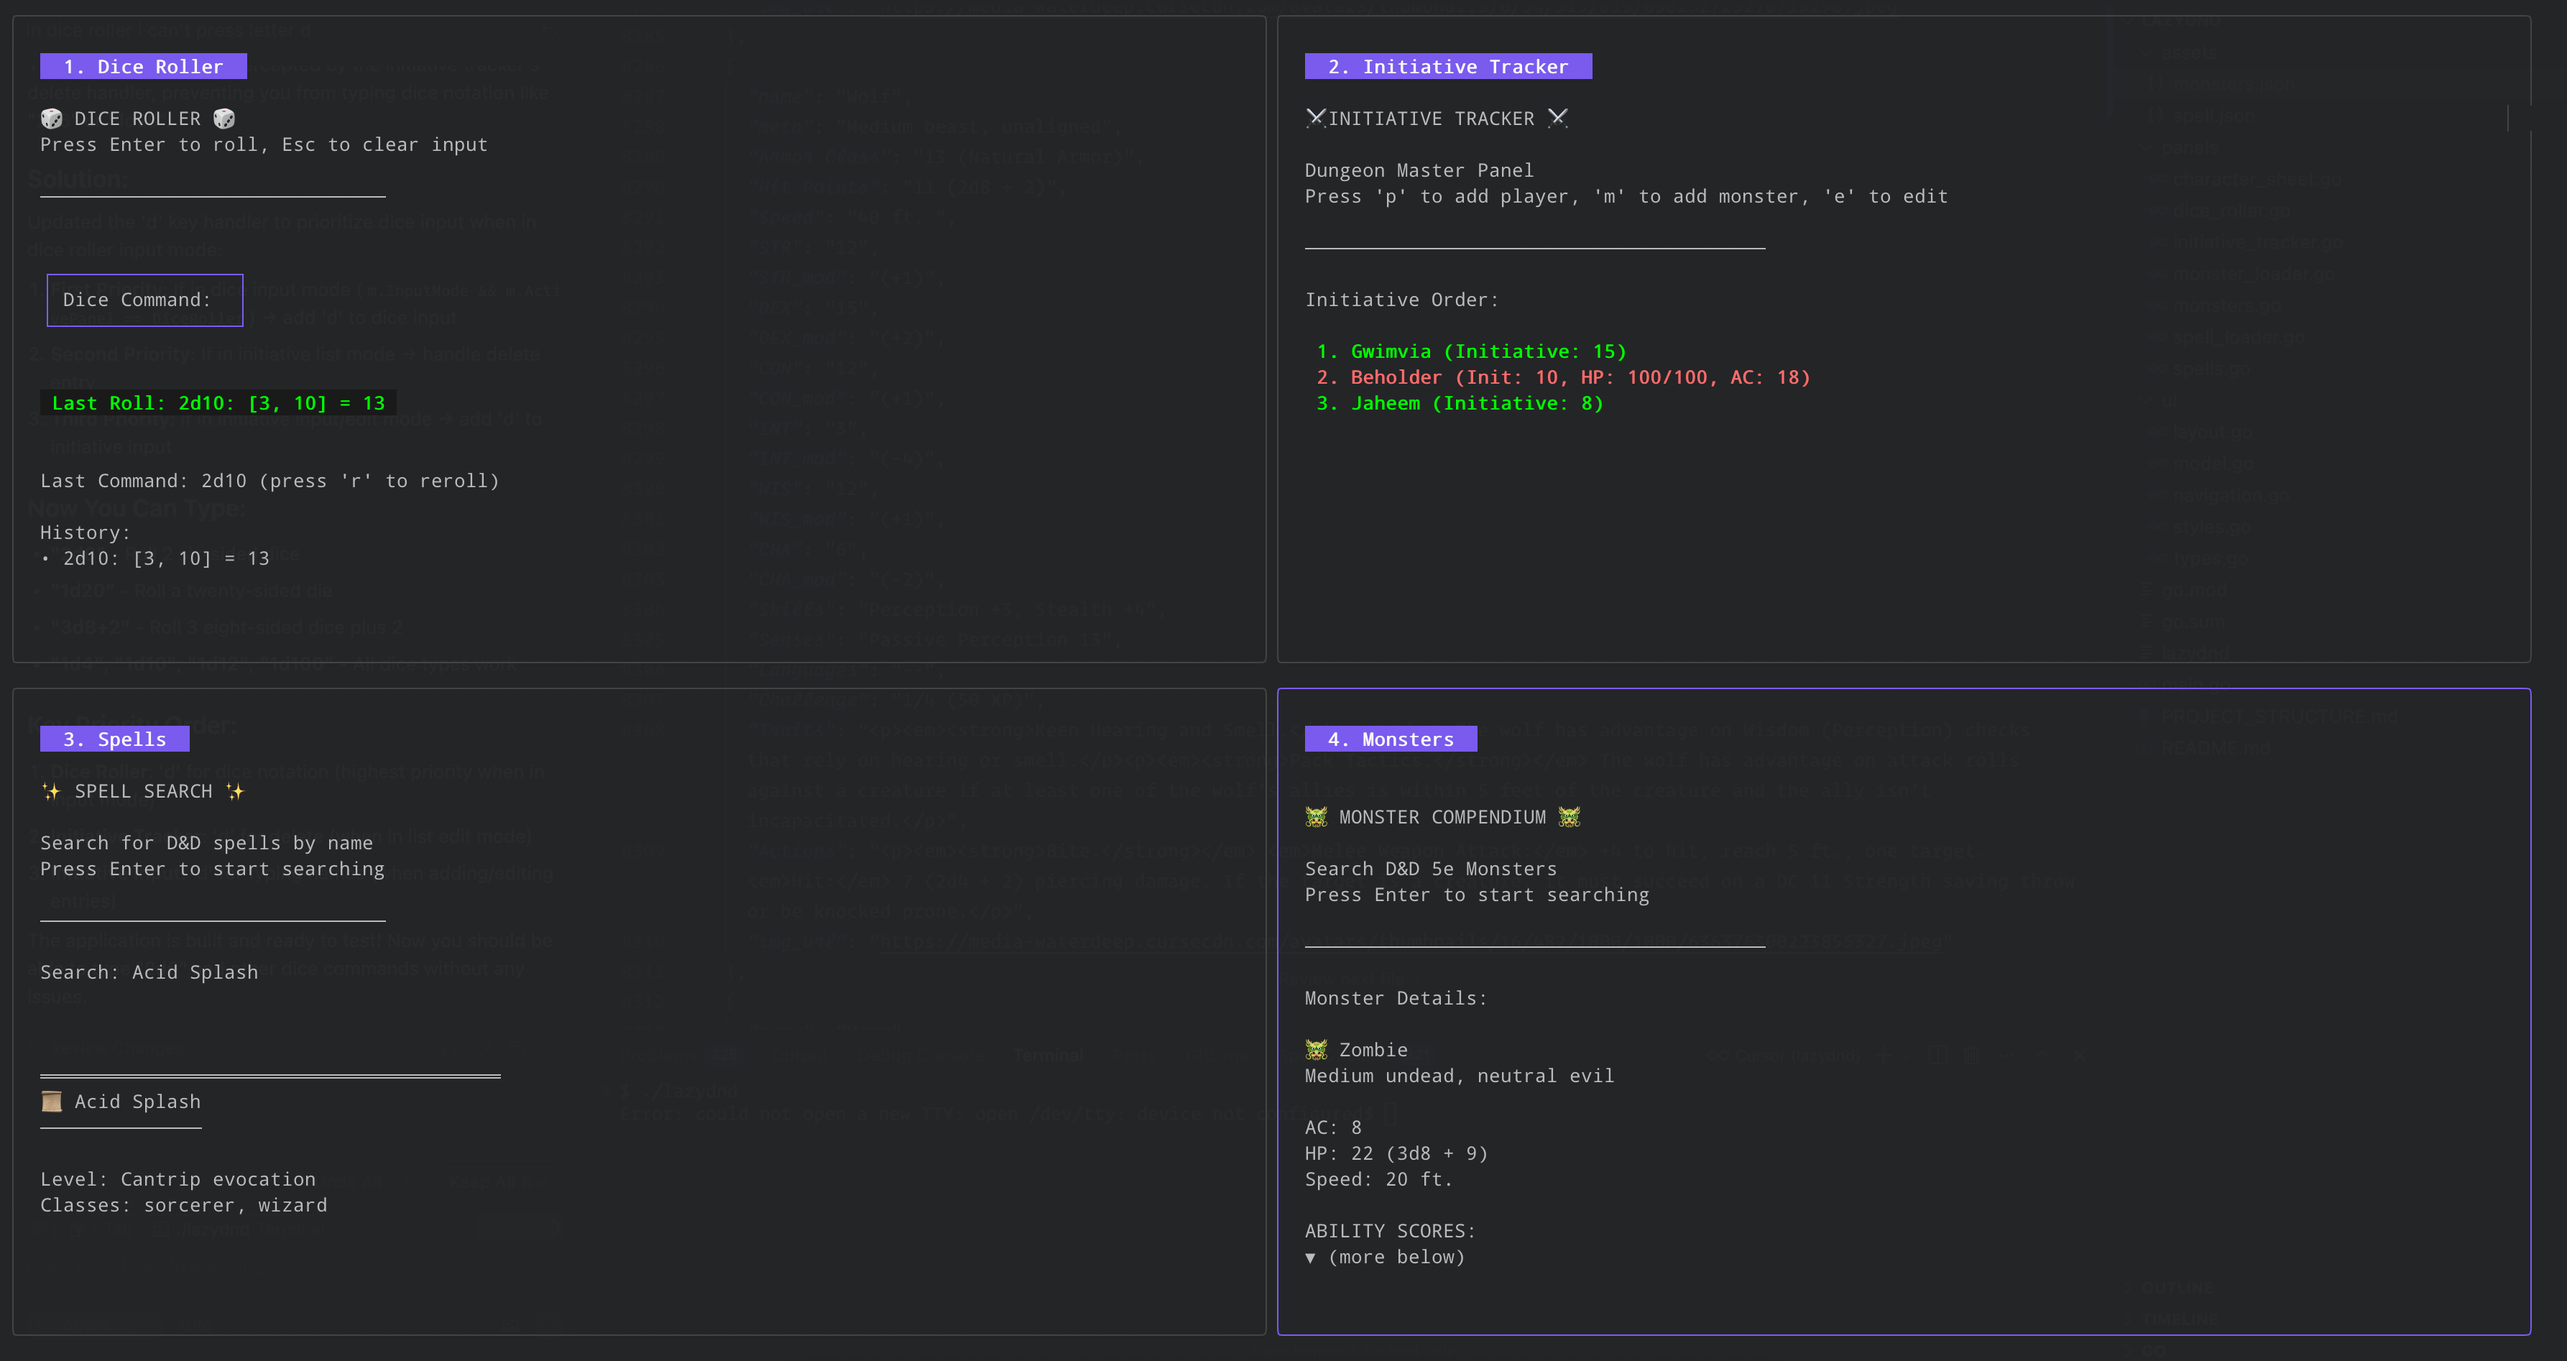
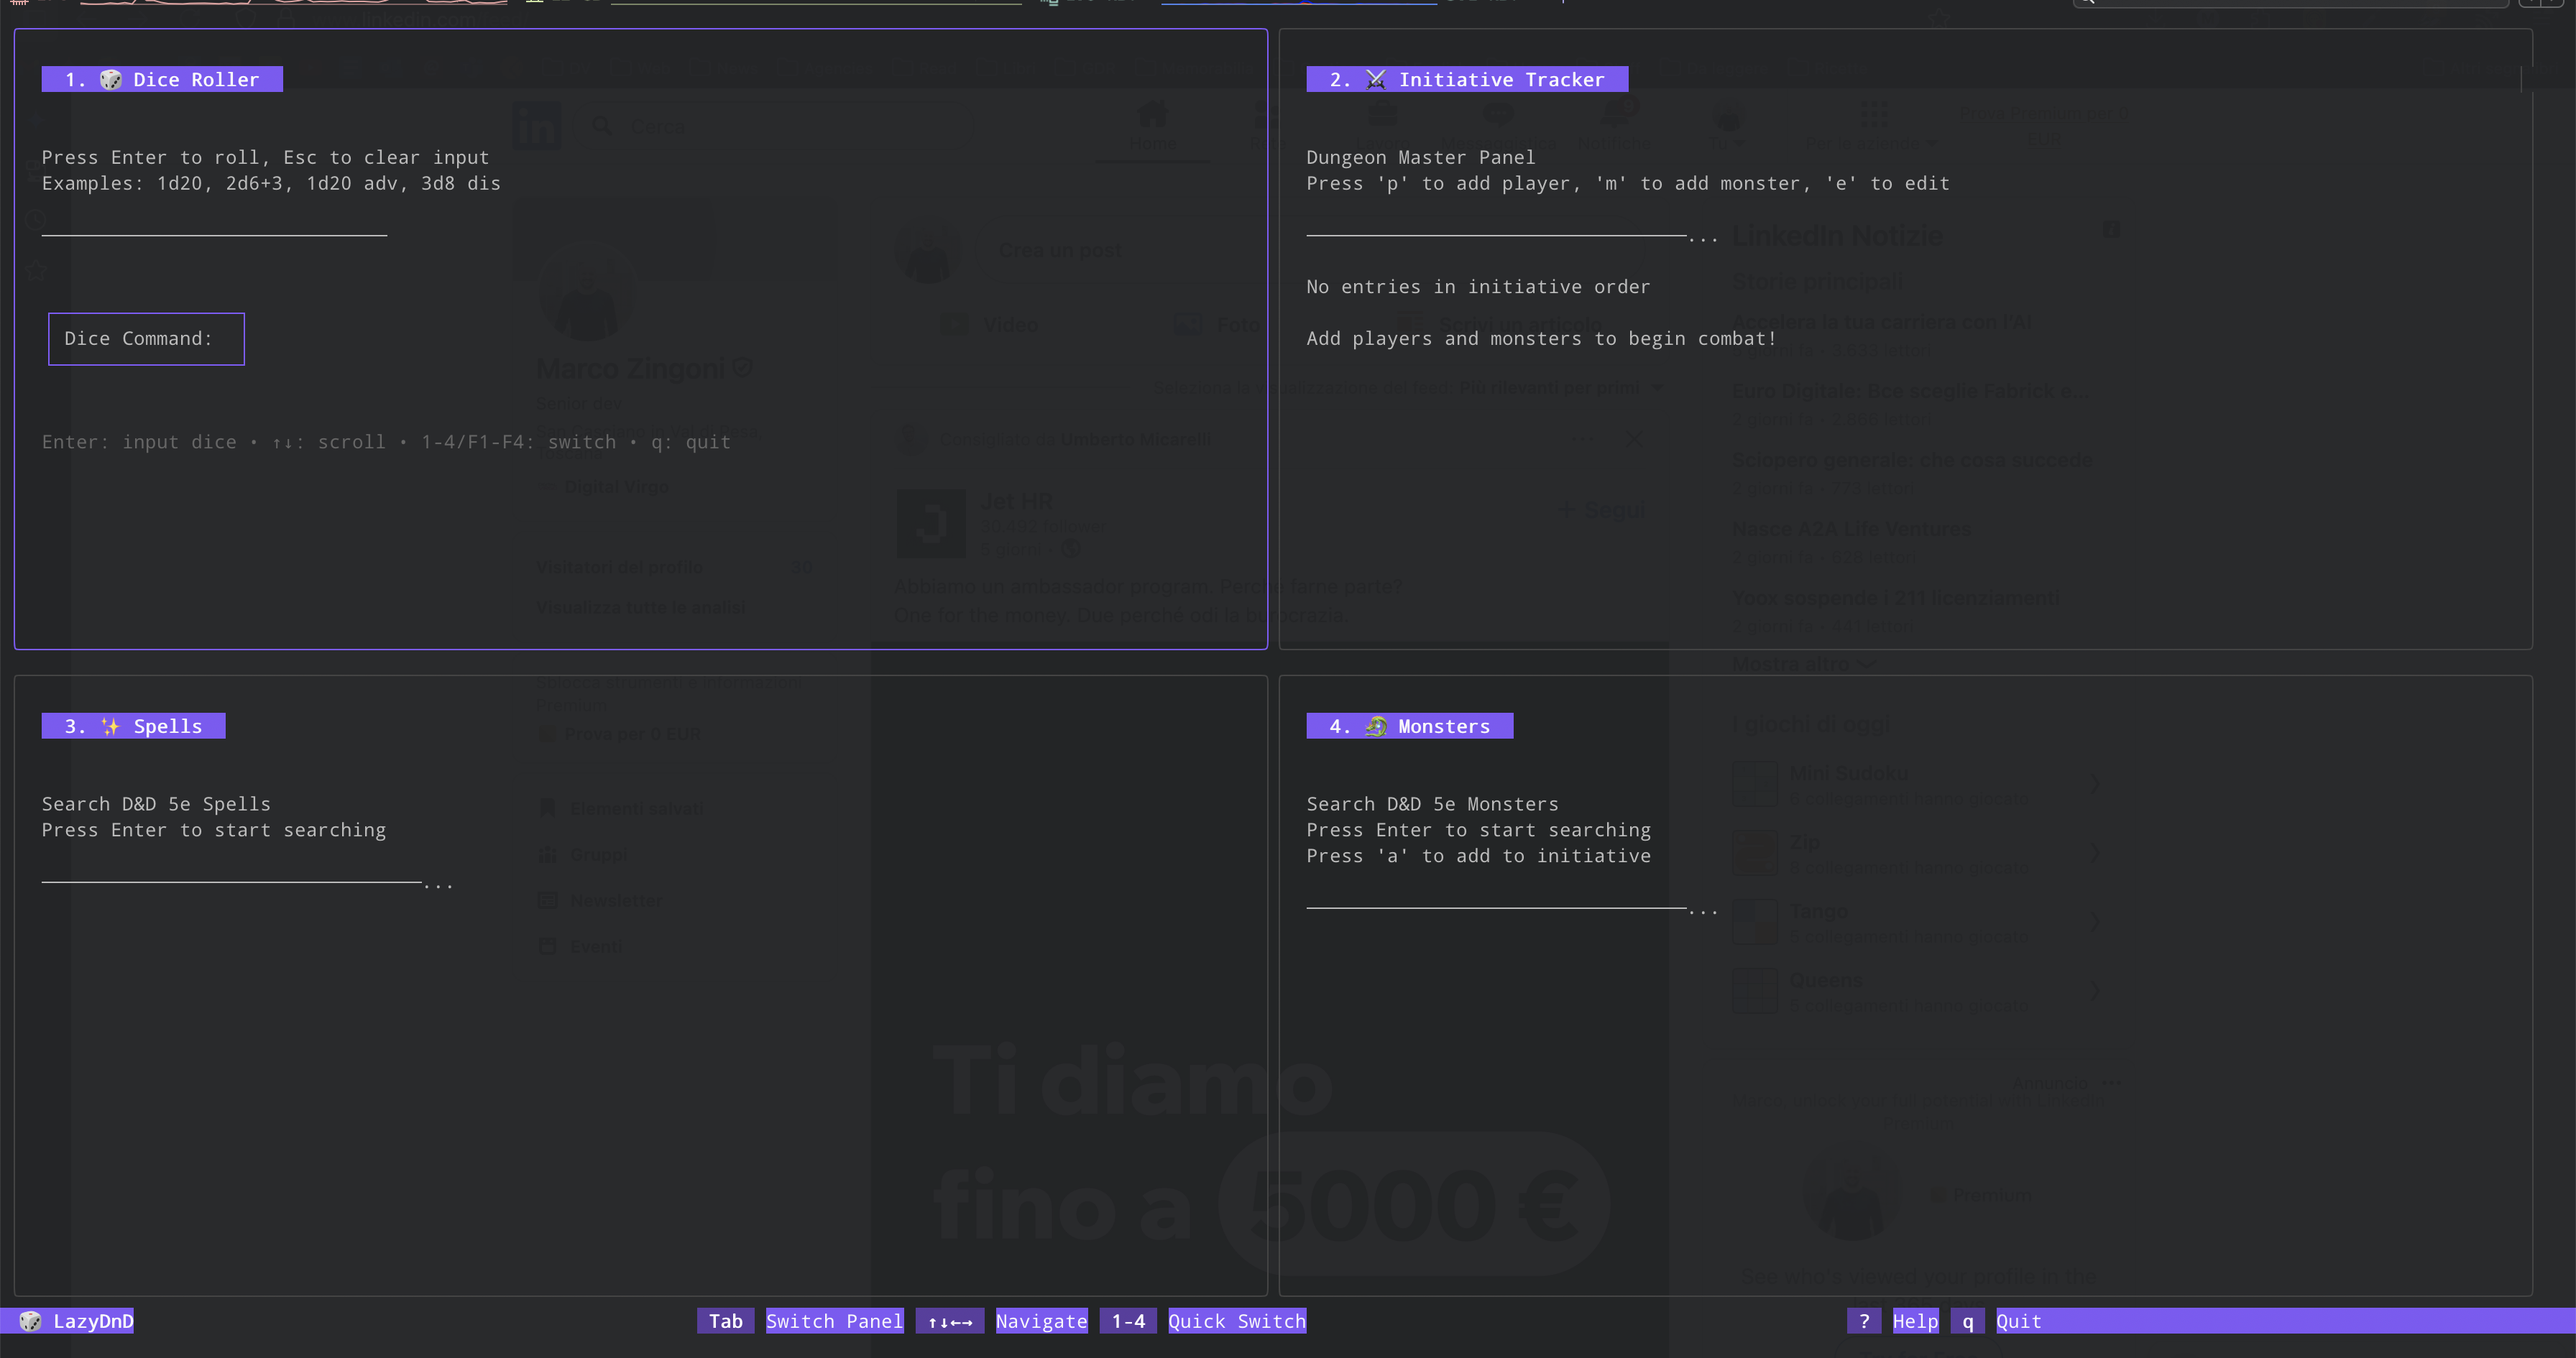
Version release v0.1.1

diff --git a/CHANGELOG.md b/CHANGELOG.md
@@ -1,4 +1,5 @@
 # CHANGELOG
 
-## v0.1.0
+## v0.1.1
 - First version of LazyDnd
+- Update Snaphsot
